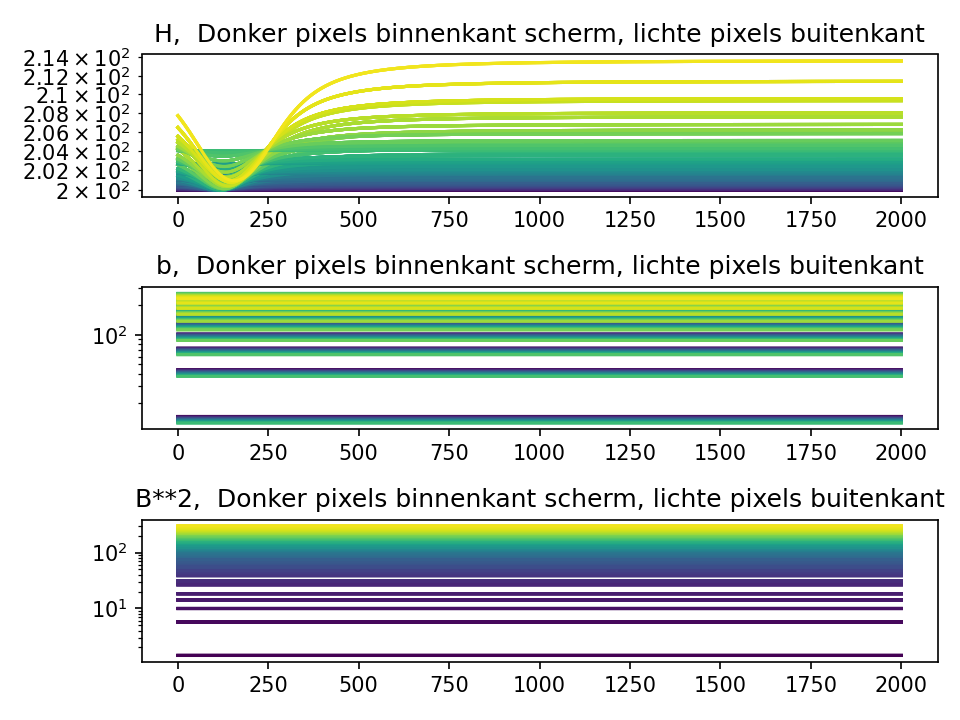
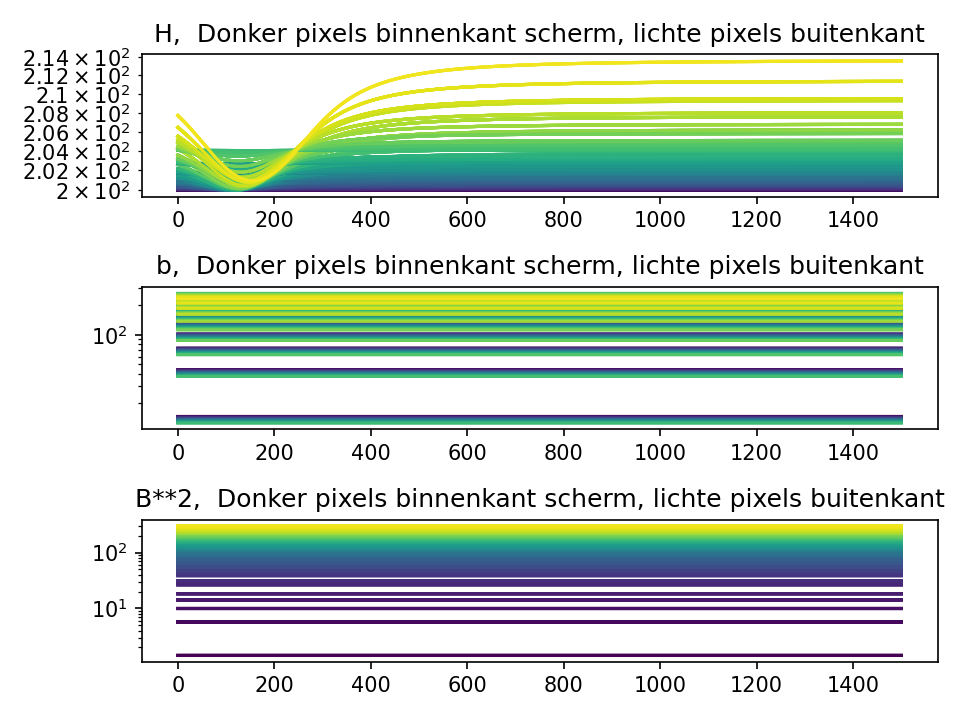
pictures

diff --git a/WormholeRayTracer.py b/WormholeRayTracer.py
@@ -522,11 +522,11 @@ if __name__ == '__main__':
     path = os.getcwd() 
     Par = [0.43/1.42953, 1, 0] # M, rho, a parameters wormhole
     #initial position in spherical coord
-    for radius in range(1, 15):
+    for radius in range(1, 10):
         initial_q = np.array([radius, np.pi, np.pi/2])
         Grid_dimension = '3D'
         mode = 0
-        Motion1, Photo1, CM1 = Simulate_DNeg(Smpl.Sympl_DNeg, Par, 0.01, 2000, initial_q, 20**2, 20**2, Grid_dimension, mode)
+        Motion1, Photo1, CM1 = Simulate_DNeg(Smpl.Sympl_DNeg, Par, 0.01, 1500, initial_q, 20**2, 20**2, Grid_dimension, mode)
         # Motion2, Photo2, CM2 = Simulate_DNeg(rk.runge_kutta, 0.01, 1000, 9, 20**2, 20**2)
         # np.save('ray_solved', Motion1)
         if mode ==  0:
